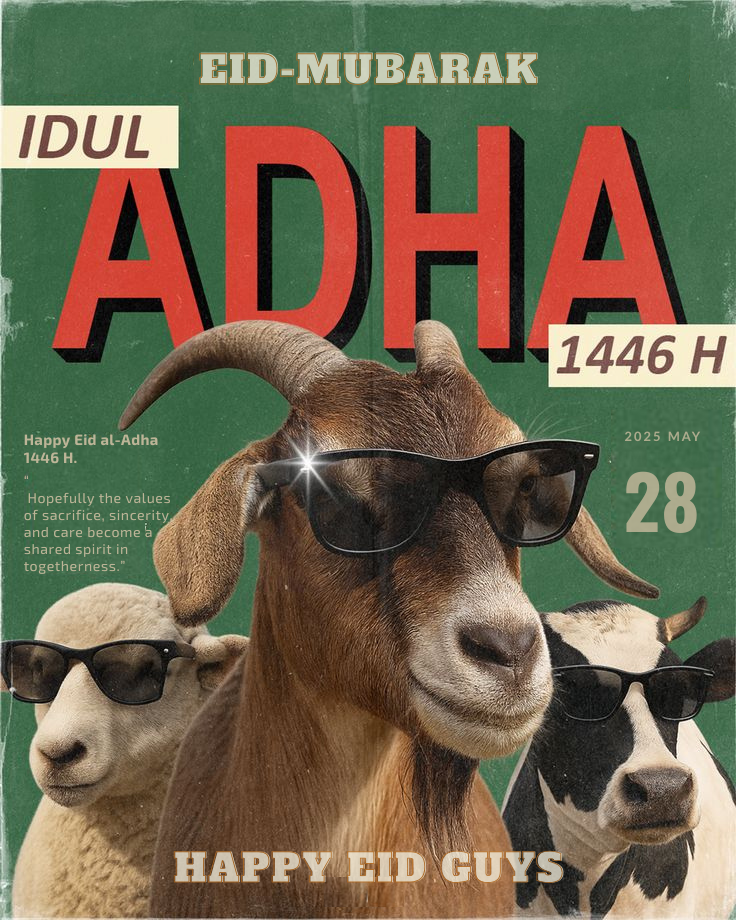
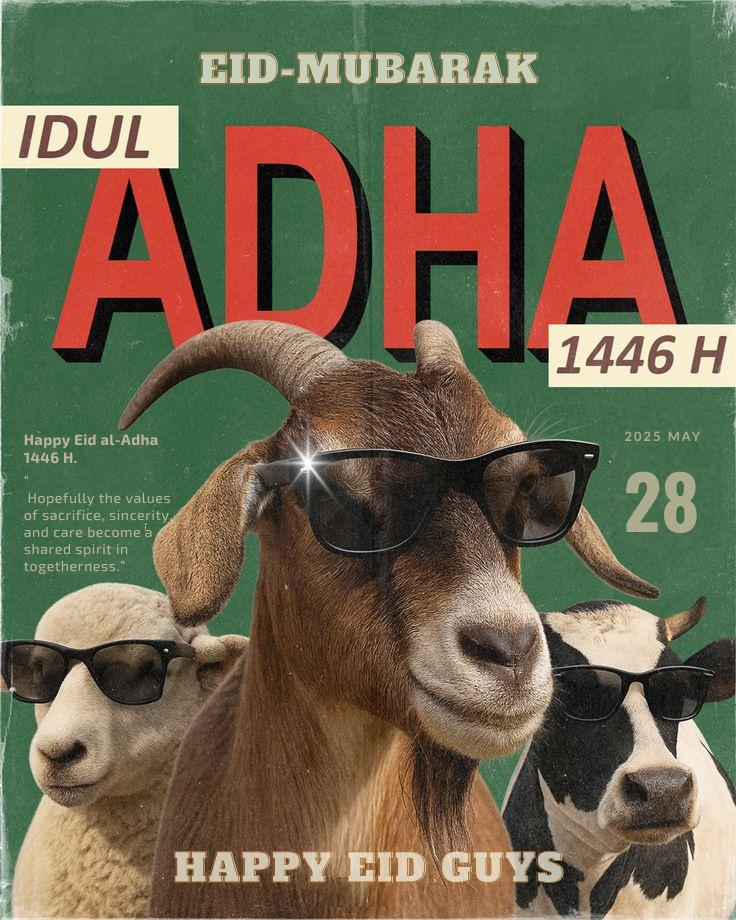
compress-images-and-add-backend-compression

Changed region(s): [[0.375, 0.0609, 0.7188, 0.0913], [0.2812, 0.0609, 0.3125, 0.0913]]

diff --git a/backend/greeting/views.py b/backend/greeting/views.py
@@ -1,10 +1,47 @@
 import os
+import sys
+from io import BytesIO
+from PIL import Image
+from django.core.files.uploadedfile import InMemoryUploadedFile
 from rest_framework.decorators import api_view
 from rest_framework.response import Response
 from rest_framework import status
 from .models import GalleryImage
 
 ADMIN_PASSWORD = "3496"  # Simple pin/password to protect edits
+
+
+def compress_image(uploaded_file):
+    # Open the image using Pillow
+    img = Image.open(uploaded_file)
+    
+    # Convert to RGB mode if it is RGBA or palette based (WebP/PNG support)
+    if img.mode in ("RGBA", "P"):
+        img = img.convert("RGB")
+        
+    # Resize if large (e.g. max width 1000px)
+    max_size = 1000
+    width, height = img.size
+    if width > max_size:
+        ratio = max_size / float(width)
+        new_size = (max_size, int(float(height) * ratio))
+        img = img.resize(new_size, Image.Resampling.LANCZOS)
+        
+    # Save the compressed image to a BytesIO buffer
+    output_io = BytesIO()
+    img.save(output_io, format="JPEG", quality=75, optimize=True, progressive=True)
+    output_io.seek(0)
+    
+    # Create a Django InMemoryUploadedFile
+    compressed_file = InMemoryUploadedFile(
+        output_io,
+        'ImageField',
+        f"{os.path.splitext(uploaded_file.name)[0]}.jpg",
+        'image/jpeg',
+        sys.getsizeof(output_io),
+        None
+    )
+    return compressed_file
 
 
 def check_auth(request):
@@ -39,6 +76,13 @@ def image_list(request):
                 {"error": "No image file provided"},
                 status=status.HTTP_400_BAD_REQUEST,
             )
+
+        # Compress and optimize the uploaded image before saving
+        try:
+            file_obj = compress_image(file_obj)
+        except Exception as e:
+            # Fallback to original image if compression fails
+            pass
 
         img = GalleryImage.objects.create(image=file_obj)
         img_url = img.image.url
